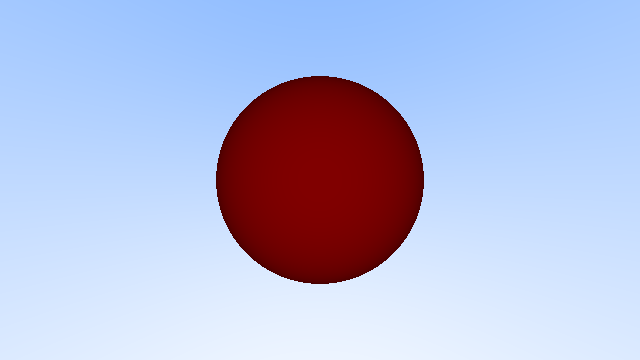
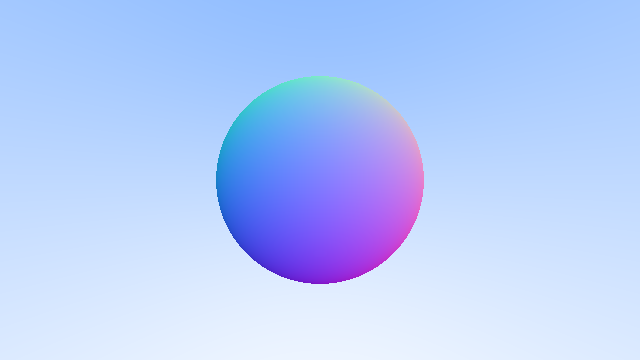
Now with normals

Changed region(s): [[0.3125, 0.2139, 0.6875, 0.7944]]

diff --git a/src/v0_single_threaded/main.cc b/src/v0_single_threaded/main.cc
@@ -64,22 +64,43 @@ inline void setPixel(vector<unsigned char> &viewPort, int x, int y, unsigned cha
     viewPort[index + 2] = b;
 }
 
+/**
+ * @brief Calculates the intersection point of a ray with a sphere
+ * 
+ * This function determines if and where a ray intersects with a sphere by solving
+ * the quadratic equation formed by substituting the ray equation into the sphere equation.
+ * 
+ * **Mathematical Background:**
+ * - Sphere equation: `(C−P)⋅(C−P) = r²` where P is a point on the sphere
+ * - Ray equation: `P = O + t*d` where O is origin, d is direction, t is distance
+ * - Substitution yields quadratic: `at² + bt + c = 0` where:
+ *   - `a = d⋅d` (direction vector dot product)
+ *   - `b = −2*d⋅(C−O)` (relates direction to center-origin vector)
+ *   - `c = (C−O)⋅(C−O) − r²` (distance from origin to center minus radius squared)
+ * 
+ * @param center The center point of the sphere in 3D space
+ * @param radius The radius of the sphere (must be positive)
+ * @param r The ray to test for intersection
+ * 
+ * @return The parameter t for the intersection point along the ray:
+ *         - Returns `-1.0` if no intersection occurs (discriminant < 0)
+ *         - Returns the farther intersection point when two intersections exist
+ *         - The actual intersection point can be computed as `r.origin() + t * r.direction()`
+ * 
+ * @note When the discriminant is non-negative, this function returns the larger t value,
+ *       corresponding to the exit point of the ray from the sphere
+ */
 double hit_sphere(const point3& center, double radius, const ray& r){
-    // The points on the sphere are those who satisfy : (C−P)⋅(C−P)=r^2
-
-    // a=d⋅d
-    // b=−2*d⋅(C−Q)
-    // c=(C−Q)⋅(C−Q)−r2
-
     auto a = r.direction().length_squared(); // Which is like r.dir · r.dir = ||r.dir||^2
-    auto b = -2.0 * dot(r.direction(), r.origin() - center);
+    auto b = -2.0 * dot(r.direction(),center - r.origin());
     auto c = (center - r.origin()).length_squared() - radius * radius;
     auto discriminant = b * b - 4 * a * c;
     
     if(discriminant < 0){
         return -1.0;
-    } else {
-        return (-b + sqrt(discriminant)) / (2.0 * a);
+    }
+    else{
+        return (-b - sqrt(discriminant)) / (2.0 * a); // We return the closest intersection
     }
 }
 
@@ -87,10 +108,14 @@ color ray_color(const ray& r)
 {
     vec3 unit_direction = unit_vector(r.direction());
 
-    auto t = hit_sphere(point3(0,0,-1), 0.5, r);
+    auto sphere_center = point3(0, 0, -1);
 
-    if(t > -1){
-        return color(t,0,0); 
+    auto t = hit_sphere(sphere_center, 0.5, r);
+
+    if(t > 0.0){        
+        // Normal is the vector from the sphere center to the hit point
+        vec3 normal = unit_vector(r.at(t) - sphere_center);
+        return 0.5 * color(normal.x() + 1, normal.y() + 1, normal.z() + 1);
     }
 
     // Le vecteur unit_direction variera entre -1 et +1 en x et y
